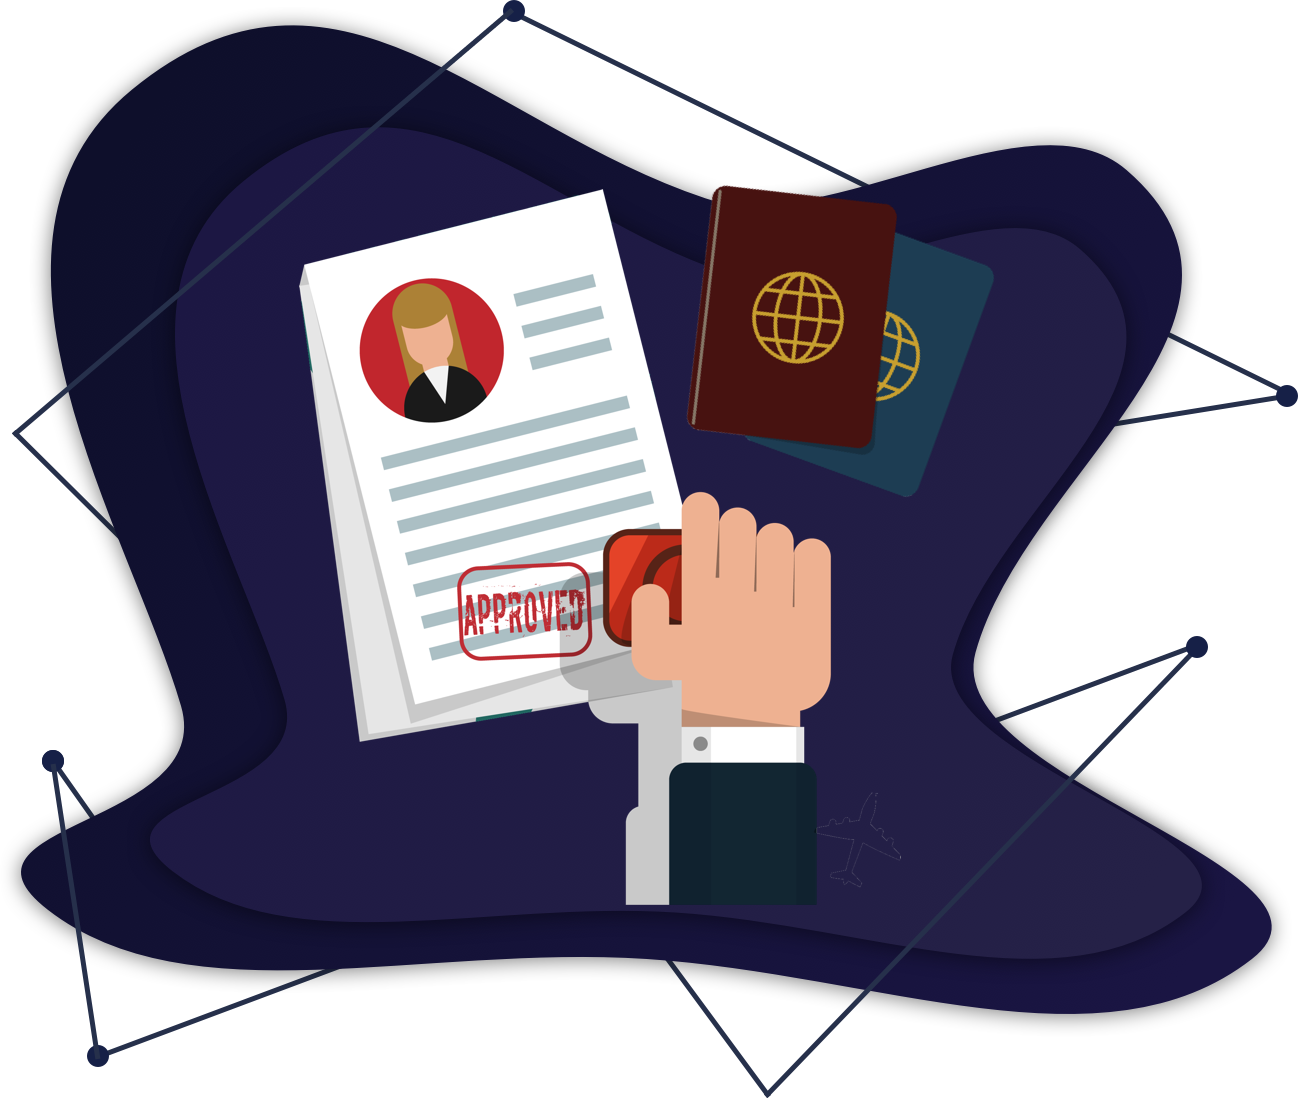
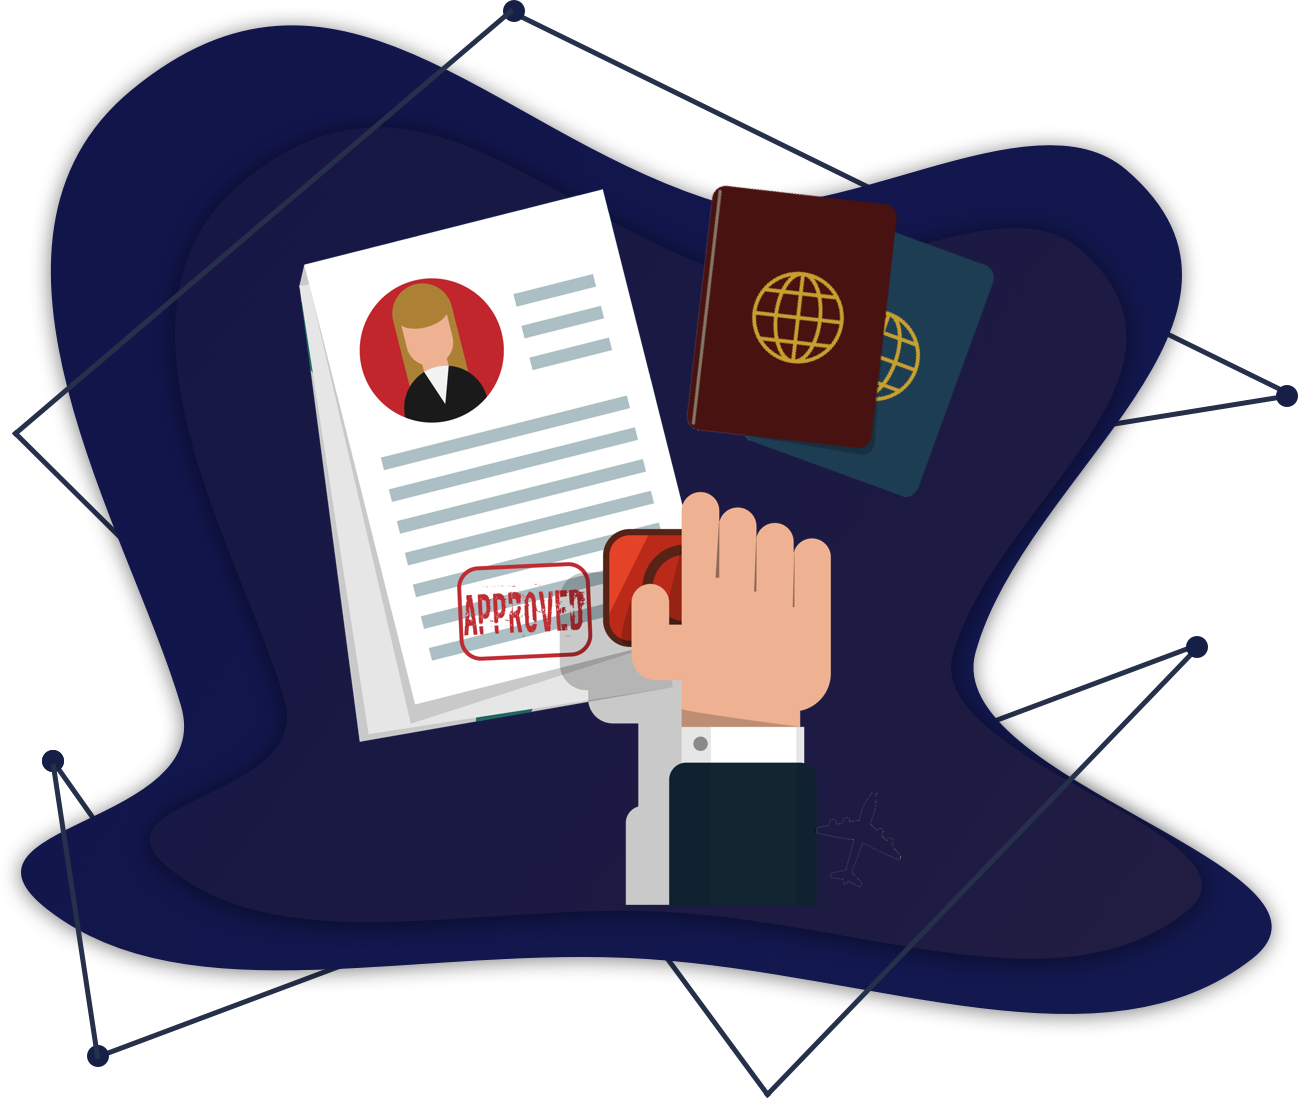
Changed colour of background and images on owners page

Changed region(s): [[0.0, 0.0, 0.5239, 0.867]]

diff --git a/public/stylesheets/new_landing/style.css b/public/stylesheets/new_landing/style.css
@@ -745,7 +745,7 @@ select:focus { outline: none; border: none; }
 .site-header .navbar.is-transparent { background: transparent; position: absolute; top: 0; left: 0; width: 100%; }
 .site-header .navbar.is-transparent .navbar-brand .logo-dark { display: none; }
 .site-header .navbar.is-transparent .navbar-brand .logo-light { display: block; }
-.site-header.has-fixed .navbar { position: fixed; width: 100%; z-index: 9; top: 0; background: #020207; border-bottom-color: rgba(0, 0, 0, 0.04); }
+.site-header.has-fixed .navbar { position: fixed; width: 100%; z-index: 9; top: 0; background: #111548; border-bottom-color: rgba(0, 0, 0, 0.04); }
 .site-header .is-transparent + .banner .banner-content { padding-top: 50px; }
 .site-header .navbar-brand { margin-top: 20px; margin-bottom: 20px; margin-left: 0; z-index: 6; }
 .site-header .scroll-down { color: #fff; font-size: 10px; display: inline-block; text-transform: uppercase; position: absolute; bottom: 120px; right: 20px; transform: rotate(-90deg); z-index: 5; }
